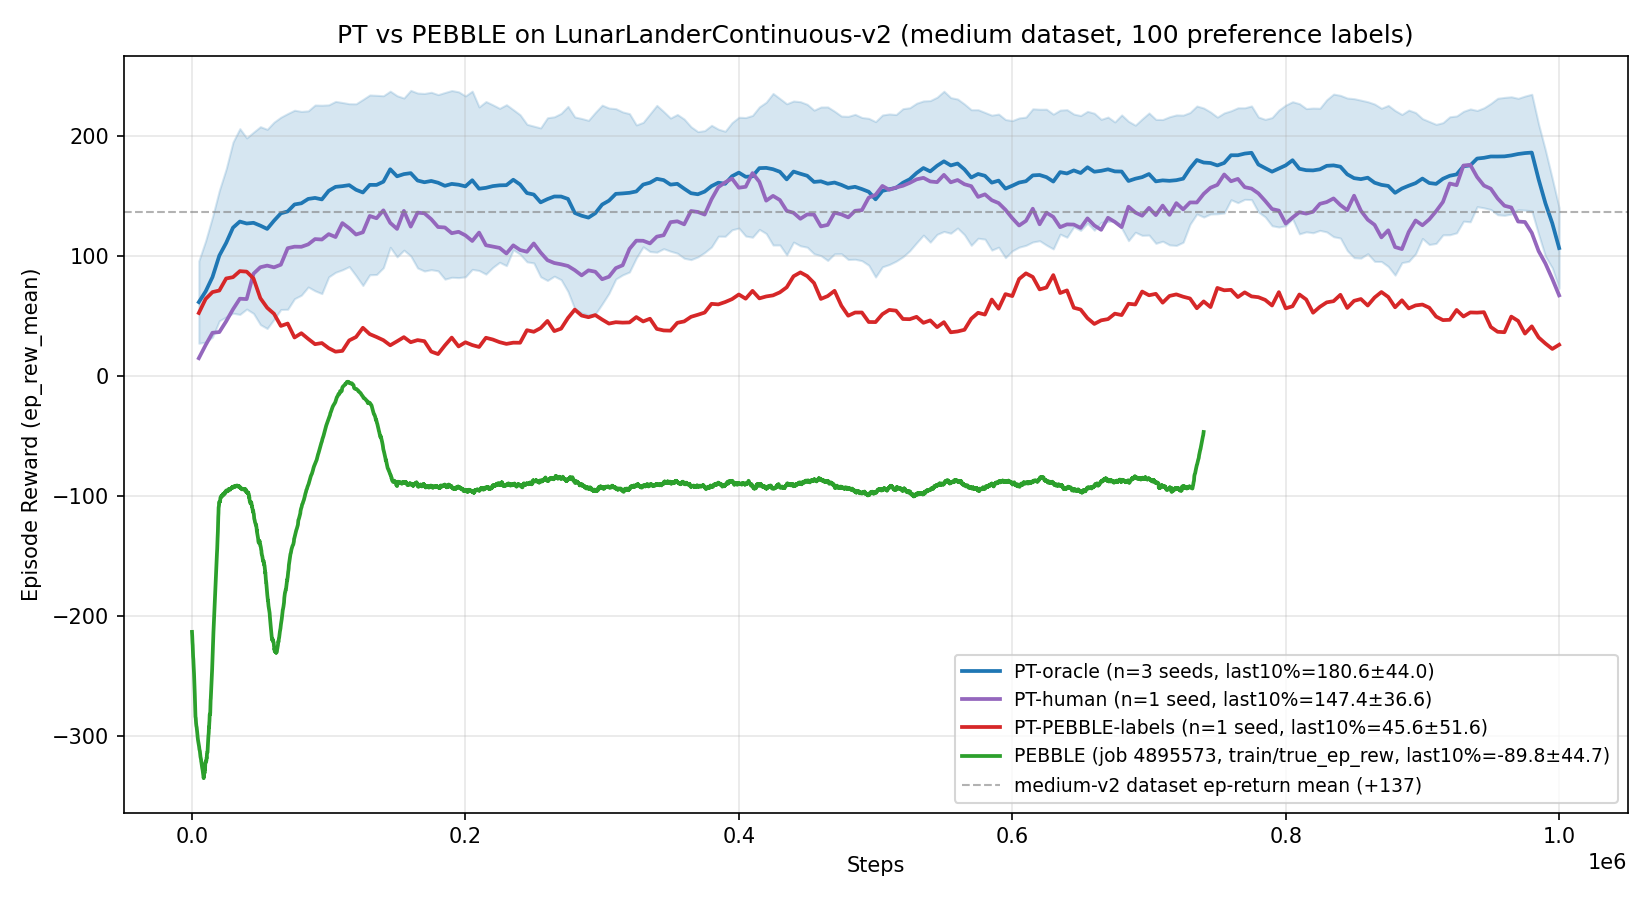
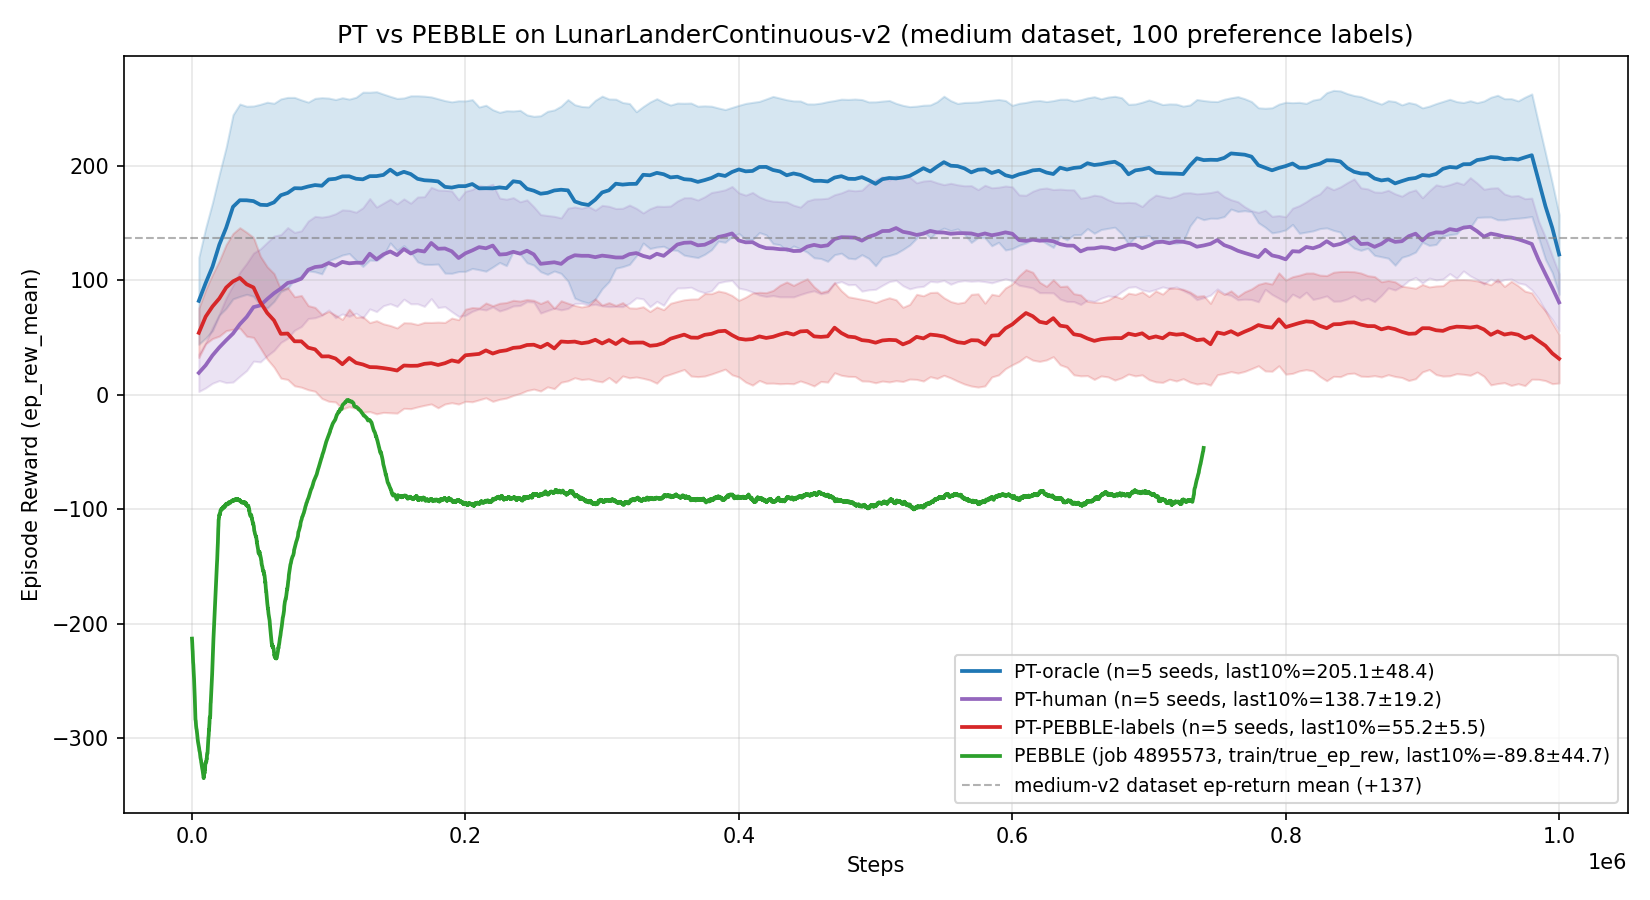
runs A/B/C: scale to 5 seeds each + symlink seed dirs for label reuse
scripts/run_pt_pipeline_{human,pebble}_extra_seeds.sh
- 4-task array (seeds 1..4) per run. Each task reuses seed_0's labels
  and seed_0's training dataset (rendered HDF5 for B, synthetic +
  medium-v2 for C); only --seed / --data_seed varies. Matches PT-paper
  "labels fixed, algorithm RNG varies" convention.

human_label/lunarlander-{medium-v2-human,pebble100}-s{1..4}
- Symlinks to the seed_0 label dirs.

scripts/plot_runs_a_vs_b.py
- gather() loads 5 seeds per run; plot_band() helper draws mean ± std.

5-seed last-10% summary (mean ± std across seeds):
  PT-oracle:        +205.1 ± 48.4
  PT-human:         +137.2 ± 19.2
  PT-PEBBLE-labels:  +51.2 ±  6.0
  PEBBLE (n=1):      -89.8 ± 44.7

diff --git a/scripts/plot_runs_a_vs_b.py b/scripts/plot_runs_a_vs_b.py
@@ -67,48 +67,43 @@ def last10_str(steps: np.ndarray, vals: np.ndarray) -> str:
     return f"{seg.mean():.1f}±{seg.std():.1f}"
 
 
-# --- gather ---------------------------------------------------------------
-oracle_curves, common_x = [], None
-for s in (0, 1, 2):
-    x, y = load_pt(ORACLE_BASE / f"seed_{s}",
-                    env_tag=f"lunarlander-medium-v2-oracle-s{s}", comment="oracle100")
-    oracle_curves.append(y)
-    if common_x is None: common_x = x
-oracle_arr = np.stack(oracle_curves)
+def gather(base: Path, env_tag_tpl: str, comment: str, n_seeds: int = 5):
+    curves, common_x = [], None
+    for s in range(n_seeds):
+        x, y = load_pt(base / f"seed_{s}", env_tag=env_tag_tpl.format(s=s),
+                       comment=comment)
+        curves.append(y)
+        if common_x is None: common_x = x
+    return common_x, np.stack(curves)
 
-xh, yh = load_pt(HUMAN_BASE / "seed_0",
-                  env_tag="lunarlander-medium-v2-human-s0", comment="human100")
-xp, yp = load_pt(PEBBLE_PT_BASE / "seed_0",
-                  env_tag="lunarlander-pebble100-s0", comment="pebble100")
+
+def plot_band(ax, x, arr, color, label_prefix):
+    mean = smooth(arr.mean(axis=0), window=10)
+    std  = smooth(arr.std(axis=0),  window=10)
+    i = int(arr.shape[1] * 0.9)
+    last10_per_seed = arr[:, i:].mean(axis=1)
+    m, sd = last10_per_seed.mean(), last10_per_seed.std()
+    ax.plot(x, mean, color=color, linewidth=1.8,
+            label=f"{label_prefix} (n={arr.shape[0]} seeds, last10%={m:.1f}±{sd:.1f})")
+    ax.fill_between(x, mean - std, mean + std, color=color, alpha=0.18)
+
+
+# --- gather ---------------------------------------------------------------
+x_o, oracle = gather(ORACLE_BASE, "lunarlander-medium-v2-oracle-s{s}", "oracle100")
+x_h, human  = gather(HUMAN_BASE,  "lunarlander-medium-v2-human-s{s}",  "human100")
+x_p, pebble = gather(PEBBLE_PT_BASE, "lunarlander-pebble100-s{s}",     "pebble100")
 
 ps, pv = load_pebble_curve(PEBBLE_RUN_TB)
-# Heavy smoothing for PEBBLE's per-episode online training rewards.
-pv_sm = smooth(pv, window=200)
+pv_sm = smooth(pv, window=200)  # PEBBLE's per-episode noisy curve
 
 # --- plot ----------------------------------------------------------------
 fig, ax = plt.subplots(figsize=(11, 6))
 COLORS = ["#1f77b4", "#d62728", "#2ca02c", "#9467bd", "#ff7f0e"]
+plot_band(ax, x_o, oracle, COLORS[0], "PT-oracle")
+plot_band(ax, x_h, human,  COLORS[3], "PT-human")
+plot_band(ax, x_p, pebble, COLORS[1], "PT-PEBBLE-labels")
 
-# PT-oracle: mean ± std band
-mean = smooth(oracle_arr.mean(axis=0), window=10)
-std  = smooth(oracle_arr.std(axis=0),  window=10)
-last10_m = oracle_arr[:, int(oracle_arr.shape[1]*0.9):].mean()
-last10_s = oracle_arr[:, int(oracle_arr.shape[1]*0.9):].mean(axis=1).std()
-ax.plot(common_x, mean, color=COLORS[0], linewidth=1.8,
-        label=f"PT-oracle (n=3 seeds, last10%={last10_m:.1f}±{last10_s:.1f})")
-ax.fill_between(common_x, mean - std, mean + std, color=COLORS[0], alpha=0.18)
-
-# PT-human (1 seed)
-yh_sm = smooth(yh, window=10)
-ax.plot(xh, yh_sm, color=COLORS[3], linewidth=1.8,
-        label=f"PT-human (n=1 seed, last10%={last10_str(xh, yh)})")
-
-# PT-PEBBLE-labels (1 seed)
-yp_sm = smooth(yp, window=10)
-ax.plot(xp, yp_sm, color=COLORS[1], linewidth=1.8,
-        label=f"PT-PEBBLE-labels (n=1 seed, last10%={last10_str(xp, yp)})")
-
-# PEBBLE itself
+# PEBBLE itself (single seed, dense online-training reward)
 ax.plot(ps, pv_sm, color=COLORS[2], linewidth=1.8,
         label=f"PEBBLE (job 4895573, train/true_ep_rew, last10%={last10_str(ps, pv)})")
 
